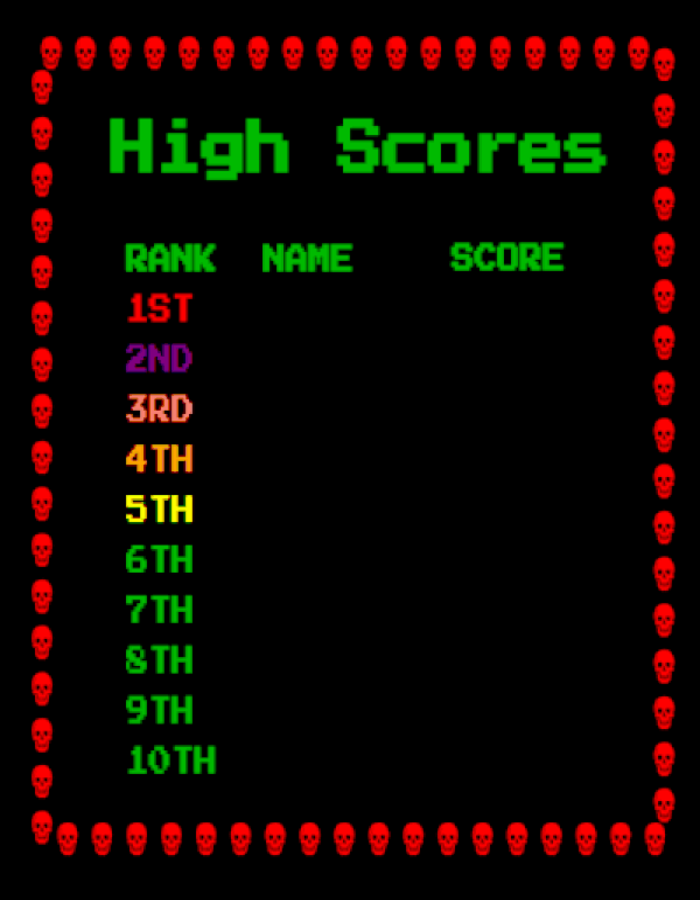
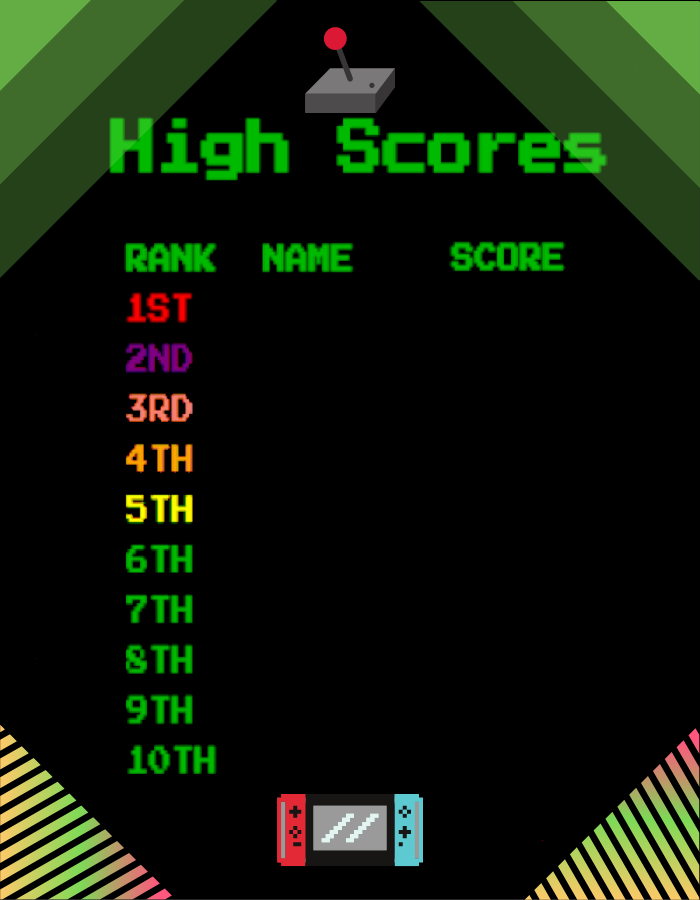
Changed highscore photo (beautiful now) and making that the player levels up faster

diff --git a/SMC_Project_Tetris++/SMC_Project_Tetris++/Options.cpp b/SMC_Project_Tetris++/SMC_Project_Tetris++/Options.cpp
@@ -204,20 +204,18 @@ void Options::InitializeControlsMultiplayerGame()
 	m_controlsMultiplayerGame[15].setString("Escape = return to menu");
 	m_controlsMultiplayerGame[16].setString("Space = pause game");
 	m_controlsMultiplayerGame[17].setString("H (in pause menu) = highscore");
-
 }
 
 void Options::InitializeControlSound()
 {
-
-	for (int i = 0; i < 6; i++)
+	for (auto& controlSound : m_controlSound)
 	{
-		m_controlSound[i].setFont(m_fontOptions);
-		m_controlSound[i].setFillColor(sf::Color::Red);
-		m_controlSound[i].setOutlineColor(sf::Color::Black);
-		m_controlSound[i].setOutlineThickness(5);
-		m_controlSound[i].setCharacterSize(25);
-		m_controlSound[i].setPosition(sf::Vector2f(OPTIONS_WIDTH / 12, OPTIONS_HEIGHT / 15 * 12));
+		controlSound.setFont(m_fontOptions);
+		controlSound.setFillColor(sf::Color::Red);
+		controlSound.setOutlineColor(sf::Color::Black);
+		controlSound.setOutlineThickness(5);
+		controlSound.setCharacterSize(25);
+		controlSound.setPosition(sf::Vector2f(OPTIONS_WIDTH / 12, OPTIONS_HEIGHT / 15 * 12));
 	}
 
 	m_controlSound[0].setString("Sound mute");
@@ -226,19 +224,18 @@ void Options::InitializeControlSound()
 	m_controlSound[3].setString("Sound 60%");
 	m_controlSound[4].setString("Sound 80%");
 	m_controlSound[5].setString("Sound 100%");
-
 }
 
 void Options::InitializeTextPage()
 {
-	for (int i = 0; i < 2; i++)
+	for (auto& textPage : m_textPage)
 	{
-		m_textPage[i].setFont(m_fontOptions);
-		m_textPage[i].setFillColor(sf::Color::White);
-		m_textPage[i].setOutlineColor(sf::Color::Black);
-		m_textPage[i].setOutlineThickness(5);
-		m_textPage[i].setCharacterSize(15);
-		m_textPage[i].setPosition(sf::Vector2f(OPTIONS_WIDTH / 2.5, OPTIONS_HEIGHT / 15 * 14));
+		textPage.setFont(m_fontOptions);
+		textPage.setFillColor(sf::Color::White);
+		textPage.setOutlineColor(sf::Color::Black);
+		textPage.setOutlineThickness(5);
+		textPage.setCharacterSize(15);
+		textPage.setPosition(sf::Vector2f(OPTIONS_WIDTH / 2.5, OPTIONS_HEIGHT / 15 * 14));
 	}
 
 	m_textPage[0].setString("Page < 1/2 >");

diff --git a/SMC_Project_Tetris++/SMC_Project_Tetris++/Player.cpp b/SMC_Project_Tetris++/SMC_Project_Tetris++/Player.cpp
@@ -58,7 +58,7 @@ void Player::SumPressedScore()
 void Player::AddClearedLines(uint16_t num)
 {
 	m_linesCleared += num;
-	int level = m_linesCleared / 10;
+	int level = m_linesCleared / 5;
 
 	switch (num)
 	{
@@ -90,22 +90,22 @@ void Player::AddClearedLines(uint16_t num)
 void Player::Update(const sf::Time& dt)
 {
 	m_playerNameText.setString(std::string("Have Fun, \n" + m_playerName));
-	m_levelText.setString(std::string("Level:\n" + std::to_string(m_linesCleared / 10)));
+	m_levelText.setString(std::string("Level:\n" + std::to_string(m_linesCleared / 5)));
 	m_scoreText.setString(std::string("Score:\n" + std::to_string(m_score)));
-	m_clearedLinesText.setString(std::string("Lines:\n" + std::to_string(m_linesCleared)));
+	m_clearedLinesText.setString(std::string("Lines cleared:\n" + std::to_string(m_linesCleared)));
 }
 
 void Player::Update_2P(const sf::Time& dt, std::string player2_name)
 {
 	m_playerNameText.setString(std::string("Have Fun, \n" + m_playerName + " & " + player2_name));
-	m_levelText.setString(std::string("Level:\n" + std::to_string(m_linesCleared / 10)));
+	m_levelText.setString(std::string("Level:\n" + std::to_string(m_linesCleared / 5)));
 	m_scoreText.setString(std::string("Score:\n" + std::to_string(m_score)));
-	m_clearedLinesText.setString(std::string("Lines:\n" + std::to_string(m_linesCleared)));
+	m_clearedLinesText.setString(std::string("Lines cleared:\n" + std::to_string(m_linesCleared)));
 }
 
 int Player::GetLevel() const
 {
-	return m_linesCleared / 10;
+	return m_linesCleared / 5;
 }
 
 uint32_t Player::GetScore() const

diff --git a/SMC_Project_Tetris++/SMC_Project_Tetris++/Highscore.cpp b/SMC_Project_Tetris++/SMC_Project_Tetris++/Highscore.cpp
@@ -14,7 +14,6 @@ Highscore::Highscore(uint16_t modeGame)
 
 	m_textureHighscore.setSmooth(true);
 	m_spriteHighscore.setTexture(m_textureHighscore);
-	//m_spriteHighscore.setColor(sf::Color(255, 255, 255, 200));
 	m_spriteHighscore.setOrigin(0, 0);
 }
 
